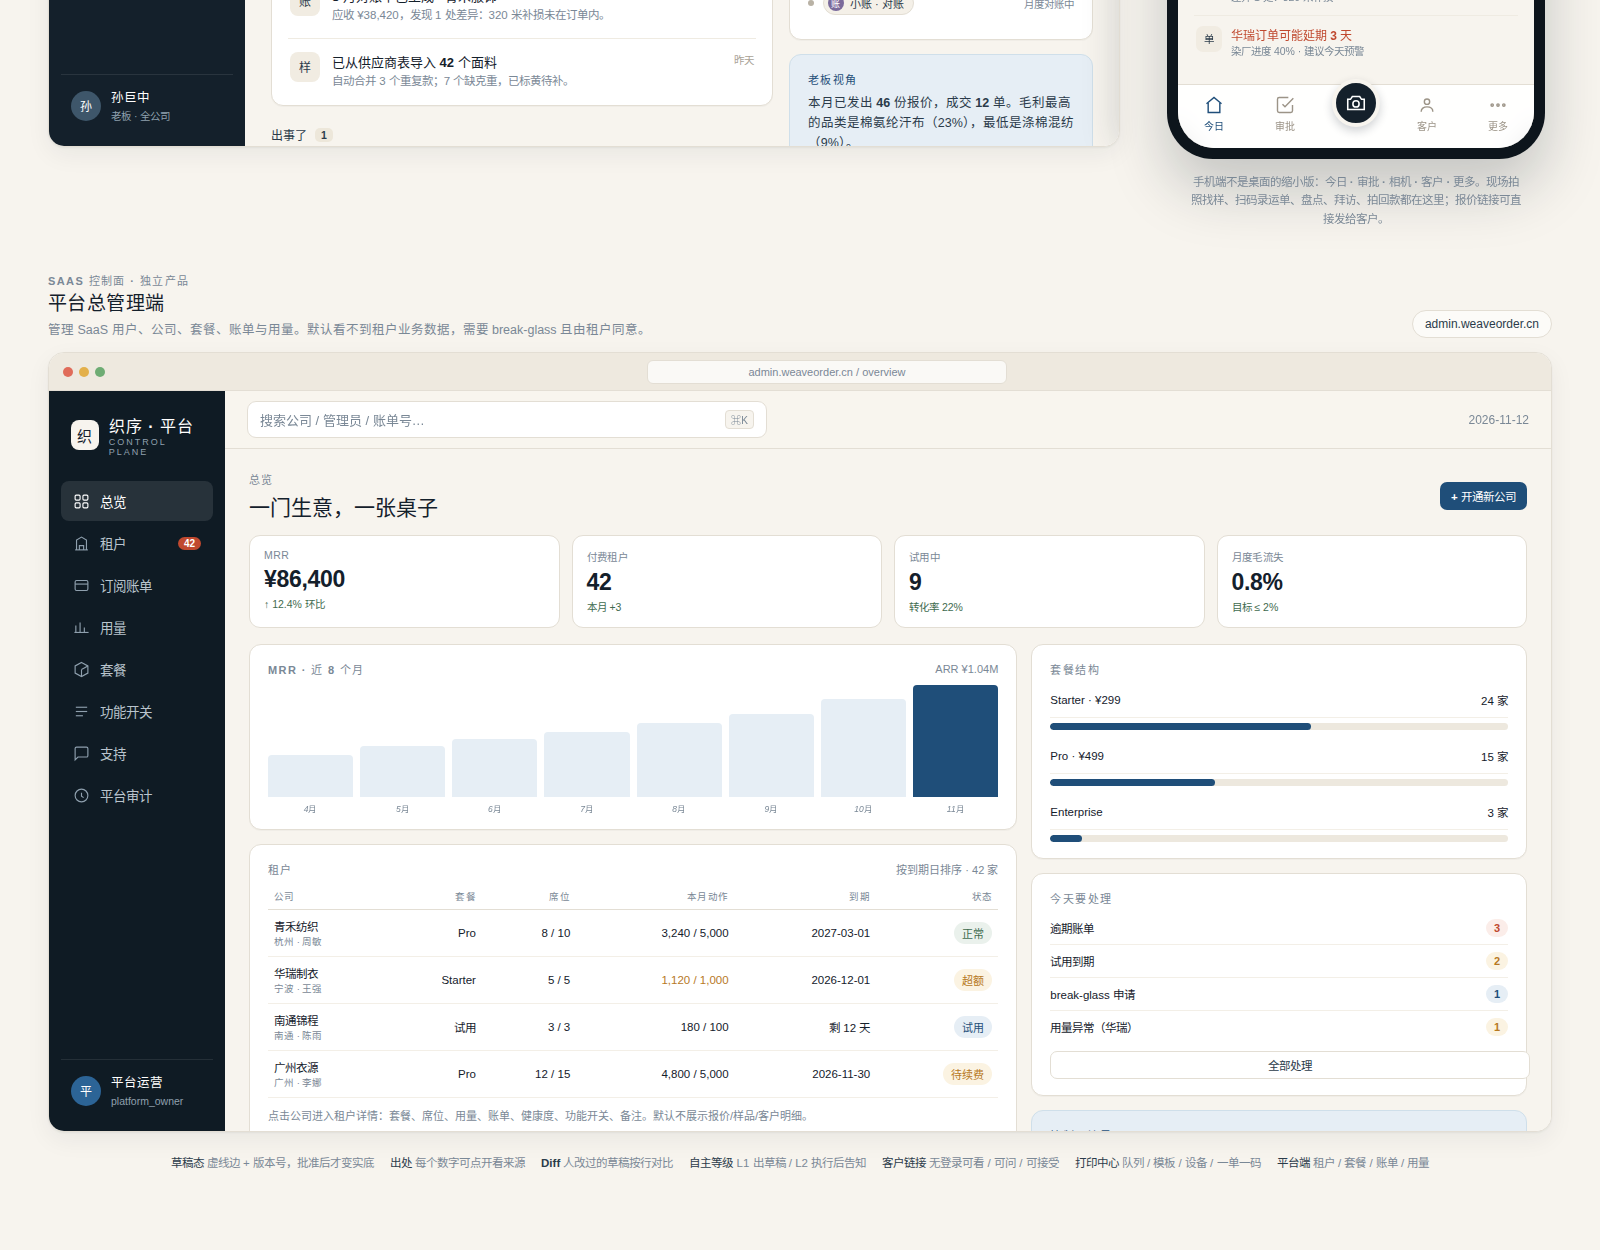
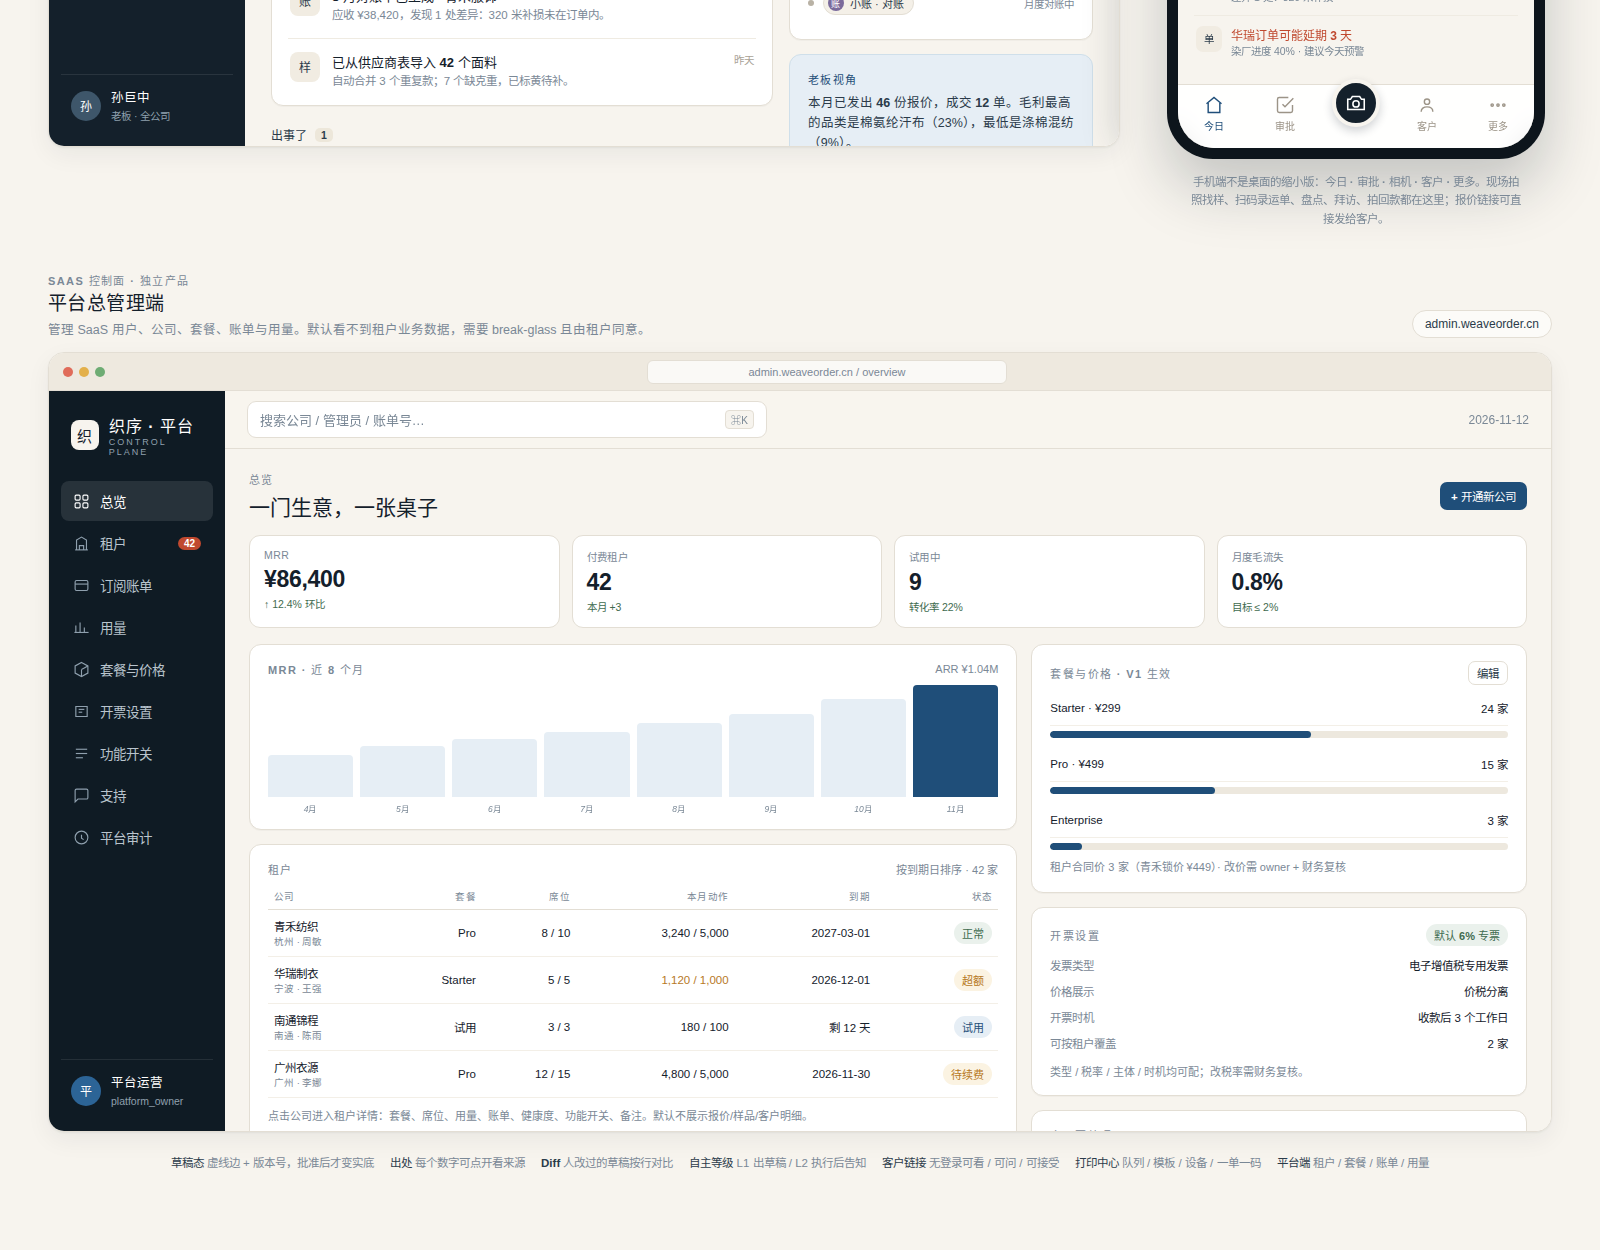
docs(design): v1.3 打印代理与个性化模板、总后台价格/开票配置 (WAN-75)
- 打印代理（Print Agent）：常驻本地、自动发现打印机、云端/本地渲染、离线补打、本地校准、签名自动更新
- 每家公司个性化：参数覆盖 → 字段布局 → 模板工作室 → 模板包；AI 识样张生成可编辑模板；模板优先级与白名单
- 定价按 ¥299/¥499 接受，但价格表版本化、租户合同价、试算与双人复核均在总后台配置
- 开票按老规矩默认 6% 专票、价税分离、收款后开票；类型/税率/主体/时机在总后台「开票设置」可改
- 原型新增 AI 识样张、自定义字段、套餐与价格、开票设置；截图 11 张

Changed region(s): [[0.625, 0.5304, 0.9688, 0.9048], [0.875, 0.7176, 0.9688, 0.8424], [0.0625, 0.5616, 0.0938, 0.6864]]

diff --git a/prototype/product-design.html b/prototype/product-design.html
@@ -450,7 +450,7 @@
     </div>
     <div class="page-meta">
       <span class="pill"><span class="dot"></span>可点击：左侧导航 / 审批 / 手机 Tab</span>
-      <span class="pill">v1.2 · 2026-11-12</span>
+      <span class="pill">v1.3 · 2026-11-12</span>
     </div>
   </div>
 
@@ -1041,6 +1041,12 @@
             <div class="pd-label">标签模板</div>
             <div class="tpl-row"><div class="tp label">100²</div><div><b>箱唛 · v2</b><span>中英双语 · QR + Code128</span></div><span class="badge good" style="margin-left:auto">启用</span></div>
             <div class="tpl-row"><div class="tp label">50×30</div><div><b>样品标签 · v1</b><span>品名/克重/色号/二维码</span></div><span class="badge good" style="margin-left:auto">启用</span></div>
+            <div class="tpl-row"><div class="tp">＋</div><div><b>自定义字段 · 6 个</b><span>英文品名 / HS Code / 唛头 / 毛重 …</span></div><span class="badge gray" style="margin-left:auto">白名单</span></div>
+            <div class="card" style="padding:12px;background:var(--indigo-soft);border-color:#CFDFEA;margin-top:12px">
+              <div class="eyebrow" style="color:var(--indigo)">AI 识样张</div>
+              <div style="font-size:11px;line-height:1.55;color:var(--ink2);margin-top:5px">上传一张旧发货单或箱唛，自动识别字段与版式，生成可编辑模板；确认变量后打测试页。</div>
+              <button class="btn primary sm" style="margin-top:8px">上传样张生成模板</button>
+            </div>
             <div class="admin-note">模板变量只来自后端白名单；改动保存为新版本，已打单据仍用原版本补打。</div>
           </div>
 
@@ -1056,7 +1062,7 @@
               <button>打印测试页</button>
               <button>重新发现设备</button>
             </div>
-            <div class="admin-note">代理必须独立于个人电脑常驻；离线时任务排队，恢复后自动补打。</div>
+            <div class="admin-note">代理 v1.4.2 · 已签名 · 自动更新 · 离线任务排队。代理必须独立于个人电脑常驻；本地只保留任务 ≤24 小时。</div>
           </div>
         </div>
       </aside>
@@ -1383,7 +1389,8 @@
             <button><svg viewBox="0 0 24 24"><path d="M3 21h18"/><path d="M5 21V7l7-4 7 4v14"/><path d="M9 21v-6h6v6"/></svg>租户 <span class="count">42</span></button>
             <button><svg viewBox="0 0 24 24"><rect x="3" y="5" width="18" height="14" rx="2"/><path d="M3 10h18"/></svg>订阅账单</button>
             <button><svg viewBox="0 0 24 24"><path d="M4 19V9"/><path d="M10 19V5"/><path d="M16 19v-7"/><path d="M22 19H2"/></svg>用量</button>
-            <button><svg viewBox="0 0 24 24"><path d="M12 2l9 5v10l-9 5-9-5V7z"/><path d="M12 12l9-5"/><path d="M12 12v10"/></svg>套餐</button>
+            <button><svg viewBox="0 0 24 24"><path d="M12 2l9 5v10l-9 5-9-5V7z"/><path d="M12 12l9-5"/><path d="M12 12v10"/></svg>套餐与价格</button>
+            <button><svg viewBox="0 0 24 24"><path d="M4 5h16v14H4z"/><path d="M8 9h8"/><path d="M8 13h5"/></svg>开票设置</button>
             <button><svg viewBox="0 0 24 24"><path d="M4 6h16"/><path d="M4 12h16"/><path d="M4 18h10"/></svg>功能开关</button>
             <button><svg viewBox="0 0 24 24"><path d="M21 15a2 2 0 0 1-2 2H7l-4 4V5a2 2 0 0 1 2-2h14a2 2 0 0 1 2 2z"/></svg>支持</button>
             <button><svg viewBox="0 0 24 24"><path d="M12 8v5l3 2"/><circle cx="12" cy="12" r="9"/></svg>平台审计</button>
@@ -1442,13 +1449,29 @@
 
               <div>
                 <div class="card pad">
-                  <div class="eyebrow" style="margin-bottom:6px">套餐结构</div>
+                  <div class="between" style="margin-bottom:6px">
+                    <div class="eyebrow">套餐与价格 · v1 生效</div>
+                    <button class="btn ghost sm" style="padding:3px 8px">编辑</button>
+                  </div>
                   <div class="plan-mini"><span>Starter · ¥299</span><span class="num">24 家</span></div>
                   <div class="bar" style="margin:5px 0 9px"><i style="width:57%"></i></div>
                   <div class="plan-mini"><span>Pro · ¥499</span><span class="num">15 家</span></div>
                   <div class="bar" style="margin:5px 0 9px"><i style="width:36%"></i></div>
                   <div class="plan-mini"><span>Enterprise</span><span class="num">3 家</span></div>
                   <div class="bar" style="margin:5px 0 0"><i style="width:7%"></i></div>
+                  <div class="tiny muted" style="margin-top:9px;line-height:1.5">租户合同价 3 家（青禾锁价 ¥449）· 改价需 owner + 财务复核</div>
+                </div>
+
+                <div class="card pad" style="margin-top:14px">
+                  <div class="between" style="margin-bottom:6px">
+                    <div class="eyebrow">开票设置</div>
+                    <span class="badge good">默认 6% 专票</span>
+                  </div>
+                  <div class="between" style="font-size:11.5px;padding:5px 0"><span class="muted">发票类型</span><span>电子增值税专用发票</span></div>
+                  <div class="between" style="font-size:11.5px;padding:5px 0"><span class="muted">价格展示</span><span>价税分离</span></div>
+                  <div class="between" style="font-size:11.5px;padding:5px 0"><span class="muted">开票时机</span><span>收款后 3 个工作日</span></div>
+                  <div class="between" style="font-size:11.5px;padding:5px 0"><span class="muted">可按租户覆盖</span><span class="num">2 家</span></div>
+                  <div class="tiny muted" style="margin-top:7px">类型 / 税率 / 主体 / 时机均可配；改税率需财务复核。</div>
                 </div>
 
                 <div class="card pad" style="margin-top:14px">
@@ -1626,6 +1649,11 @@
   const pParam = new URLSearchParams(location.search).get('p');
   if (pParam) setPhone('p-' + pParam);
   if (new URLSearchParams(location.search).get('print') === '1') openPrint(true);
+  const pdParam = new URLSearchParams(location.search).get('pd');
+  if (pdParam) {
+    const tabBtn = document.querySelector('#pdTabs [data-pdtab="pd-' + pdParam + '"]');
+    if (tabBtn) tabBtn.click();
+  }
   const scrollParam = (new URLSearchParams(location.search).get('scroll') || '').trim();
   if (scrollParam) {
     const target = document.getElementById(scrollParam) || document.querySelector('#' + scrollParam);
